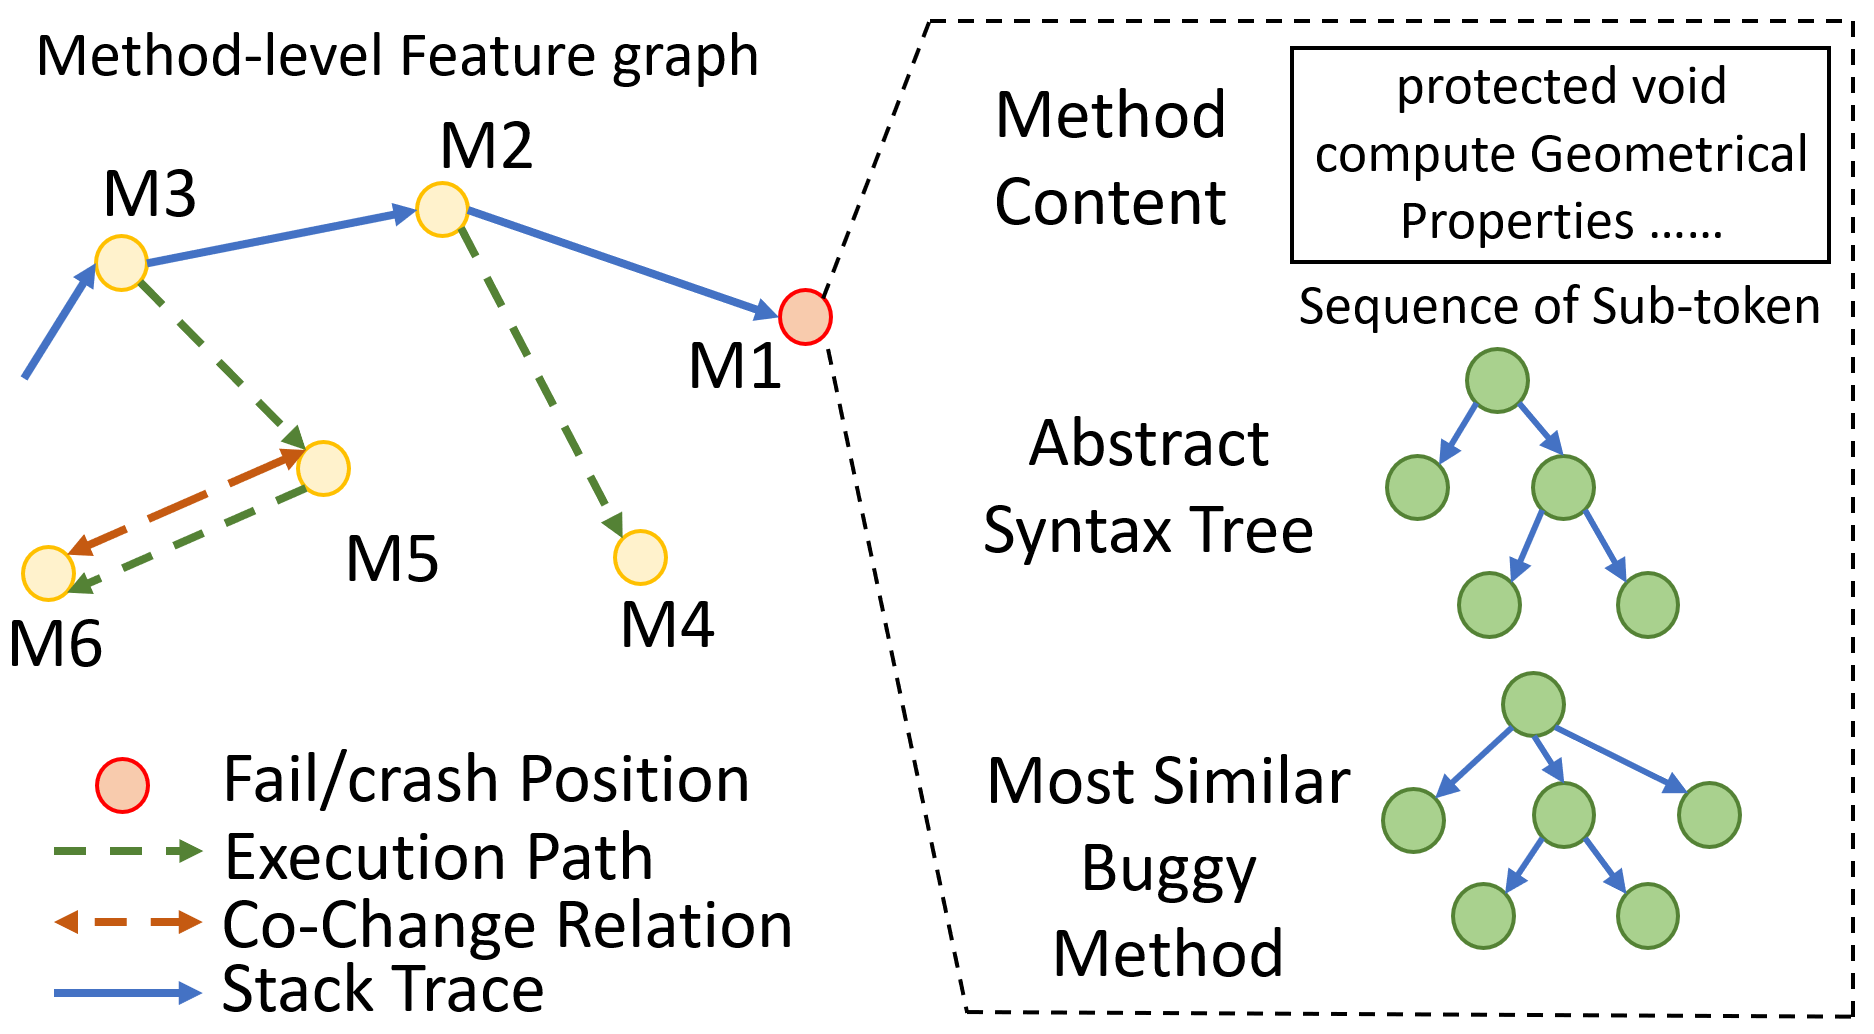
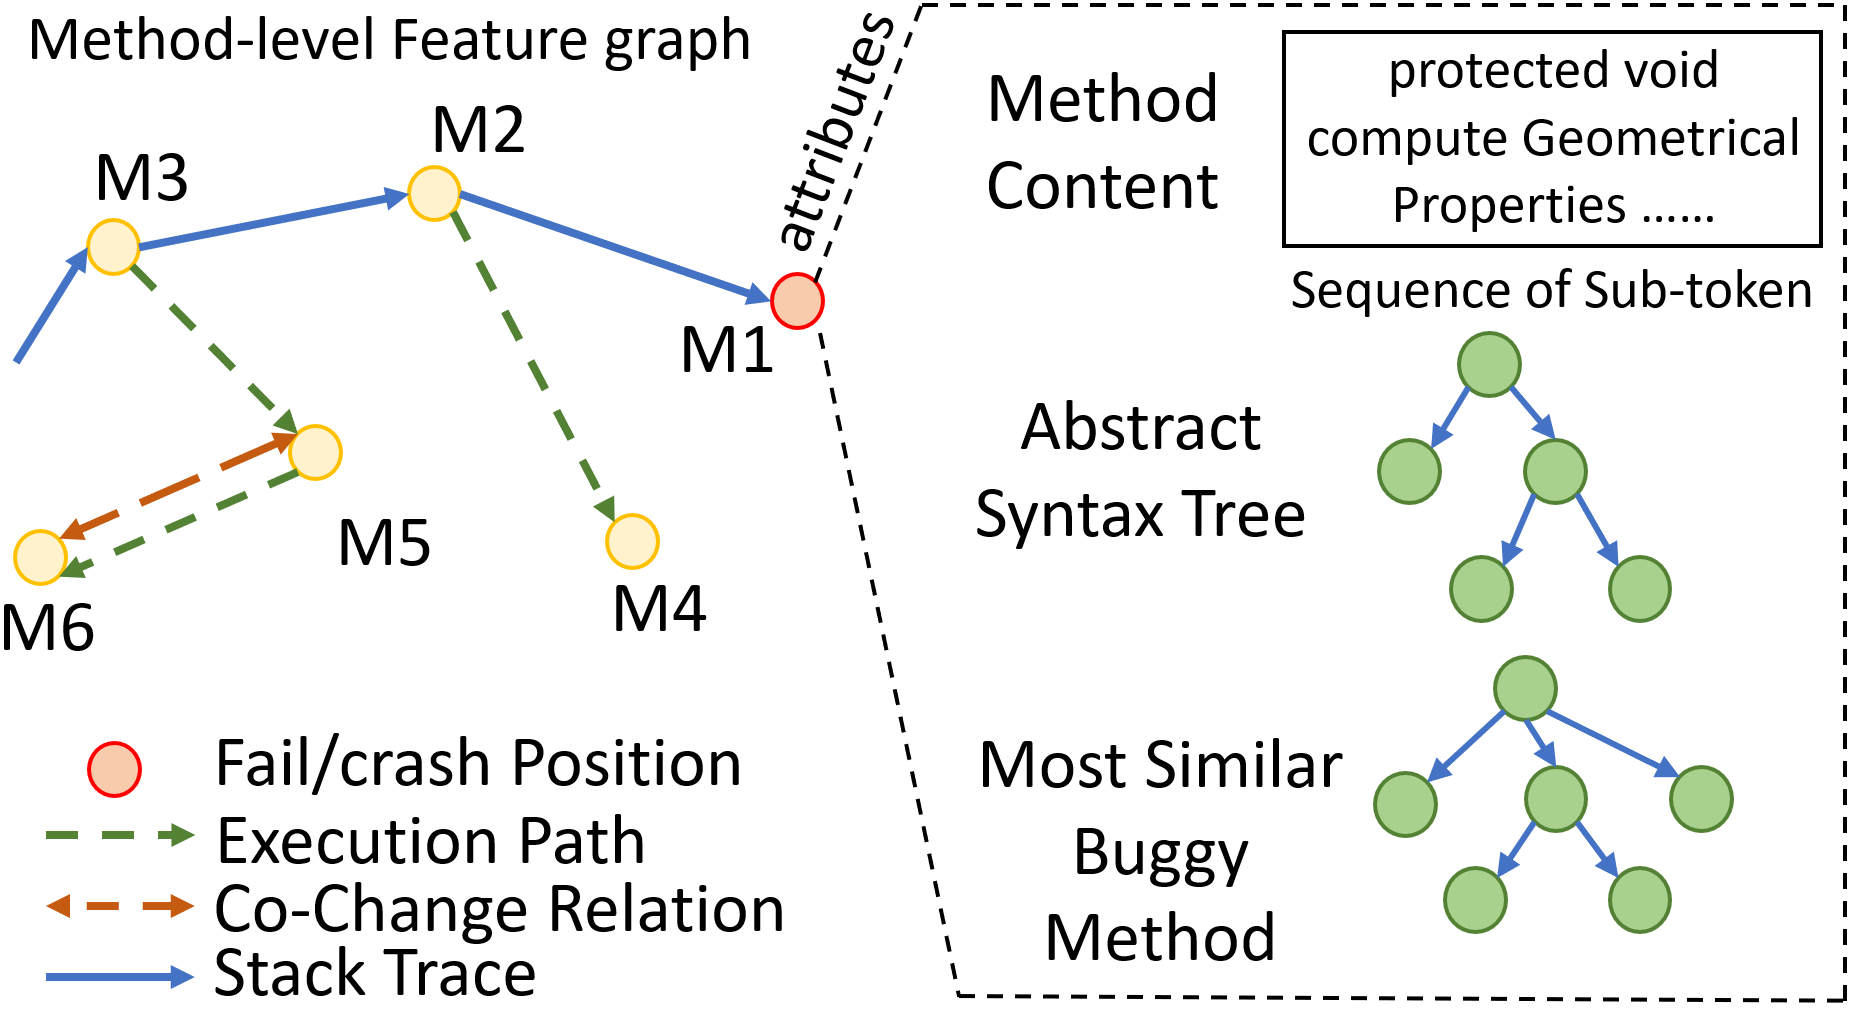
temp

diff --git a/sections/approach_step1.tex b/sections/approach_step1.tex
@@ -1,8 +1,12 @@
 \section{Feature Extraction}
+\label{feature-extract:sec}
 
-The first step of \tool is to preprocess the input data into the suitable format and group them into statement and method two levels. So the input of this step is the \tool input, including the java project that needs to do the fault localization with the commit history and the relevant test cases for the project. And the output of this step is two groups of graphs with node features for statement-level and method-level.
+%The first step of \tool is to preprocess the input data into the suitable format and group them into statement and method two levels. So the input of this step is the \tool input, including the java project that needs to do the fault localization with the commit history and the relevant test cases for the project. And the output of this step is two groups of graphs with node features for statement-level and method-level.
 
-Specifically, \tool extract the features from two levels: the method-level and statement-level feature extraction.
+The goal of this step is to extract the important features for FL from
+the test coverage and source code repository.
+
+%Specifically, \tool extract the features from two levels: the method-level and statement-level feature extraction.
 
 \begin{figure}[t]
 	\centering
@@ -12,7 +16,31 @@ Specifically, \tool extract the features from two levels: the method-level and s
 \end{figure}
 
 \subsection{Method-level Feature Extraction}
-For the method level, \tool uses the method as the basic unit. And for each method, \tool extracts three key features, including the method content, abstract syntax tree (AST), and the most similar buggy method. 1> For the method content, \tool collect the source code of each method $M$ and link each statement $S_m$ one by one in $M$ as a sequence $Seq_m$ to represent the method content. \tool removes all special characters and uses CamelCase to break down the tokens in the sequence into sub-tokens to reduce the influence of biases. For example, in the Figure \ref{method-level-feature-extraction}, the method content feature in the method $M1$ shows the extracted sequence of sub-tokens $protected void compute ......$. The source code is listed on the input of the Figure \ref{statement-level-feature-extraction}. 2> As for the AST, \tool generates abstract syntax tree $Tree_m$ for each method $M$ by using JDT package \cite{JDT}. The generated AST looks like the example shown on the abstract syntax tree feature in Figure \ref{method-level-feature-extraction}. 3> When extracting the most similar buggy method feature, \tool breaks down the methods into the sequence of sub-tokens just like the method content feature. It then uses GloVe \cite{pennington2014glove} to learn the embedding for each sub-token and replace the sub-tokens with the embedding vectors. After this, \tool calculates the cosine similarity between the current method $m$ and all other buggy methods in the commit history (before the current bug) to find the most similar buggy method $m_b$. For this buggy method, \tool also uses the JDT package to generate the AST for $m_b$. The most similar buggy method feature in Figure \ref{method-level-feature-extraction} shows a possible example for it.
+
+Figure~\ref{method-level-feature-extraction} illustrates the key
+attributes and relations that we collect for each method $M_1$. We
+extract the following attributes for $M_1$. First, for the method
+content, we remove special characters and separators in the method's
+interface and body, and use CamelCase convention to break each code
+token into the sub-tokens. For example, in
+Figure~\ref{method-level-feature-extraction}, the node $M_1$
+represents the method \code{computeGeometricalProperties} in
+Figure~\ref{statement-level-feature-extraction}. For the method
+content for $M_1$, the extracted sequence of sub-tokens is
+\code{protected}, \code{void}, \code{compute}, \code{Geometrical},
+\code{Properties}, etc. Second, for the method's structure, we use JDT
+package~\cite{JDT} to parse the source code to build the AST of the
+method. Third, we keep the most similar buggy method $M_b$ with $M_1$.
+Note that we keep $M_b$ as an attribute of $M_1$, rather than
+representing $M_b$ in the feature graph. The rationale is that $M_b$
+might be in the past and might not be in the current version of the
+project. Two methods are similar when they have similar sequences of
+the sub-tokens (represented by the GloVe embeddings~\cite{glove2014}).
+For $M_b$, we build its AST via JDT and keep as an attribute for
+$M_1$.
+
+
+%For the method level, \tool uses the method as the basic unit. And for each method, \tool extracts three key features, including the method content, abstract syntax tree (AST), and the most similar buggy method. 1> For the method content, \tool collect the source code of each method $M$ and link each statement $S_m$ one by one in $M$ as a sequence $Seq_m$ to represent the method content. \tool removes all special characters and uses CamelCase to break down the tokens in the sequence into sub-tokens to reduce the influence of biases. For example, in the Figure \ref{method-level-feature-extraction}, the method content feature in the method $M1$ shows the extracted sequence of sub-tokens $protected void compute ......$. The source code is listed on the input of the Figure \ref{statement-level-feature-extraction}. 2> As for the AST, \tool generates abstract syntax tree $Tree_m$ for each method $M$ by using JDT package \cite{JDT}. The generated AST looks like the example shown on the abstract syntax tree feature in Figure \ref{method-level-feature-extraction}. 3> When extracting the most similar buggy method feature, \tool breaks down the methods into the sequence of sub-tokens just like the method content feature. It then uses GloVe \cite{pennington2014glove} to learn the embedding for each sub-token and replace the sub-tokens with the embedding vectors. After this, \tool calculates the cosine similarity between the current method $m$ and all other buggy methods in the commit history (before the current bug) to find the most similar buggy method $m_b$. For this buggy method, \tool also uses the JDT package to generate the AST for $m_b$. The most similar buggy method feature in Figure \ref{method-level-feature-extraction} shows a possible example for it.
 
 After having these three features for each method, \tool uses three kinds of edges to link them as a graph. First of all, \tool runs test cases for the project. If a test case $t_i$ failed, \tool collect the stack trace for the test case $t_i$. Because the stack trace is sometimes too long, using the crashed position as the root, \tool only picks part of the stack trace $st_i$ with the depth of ten in consideration. It means that on the stack trace $st_i$, there are at most ten methods include $m_1, m_2, ..., m_{10}$ where $m_1$ is the crashed position. For every two method $m_j$ and $m_{j+1}$ among these methods, $m_{j+1}$ calls the $m_j$ in the stack trace. The edge $E_m^s$ direction in it is always from $m_{j+1}$ point to $m_j$. For example, in the Figure \ref{method-level-feature-extraction}, the crashed method is $M1$ and the blue solid edges are the stack trace $st_i$. The figure shows that in the stack trace, $M3$ comes out before $M2$ and $M2$ comes out before $M1$. The second type of edge is the execution path. By using each method $m_j$ in the stack trace $st_i$ as the root method, \tool expands the stack trace $st_i$ by adding the executed methods into the graph. The direction of the execution edges $E_m^e$ is also the same as the call direction. Also, because sometimes the execution path may be very long for a method, we only keep the methods $m_k$ within ten steps from the crashed position $m_1$ that means in the graph, from node $m_k$ to $m_1$, the steps are no more than ten (when counting the steps, \tool ignore the edge direction). The green dotted line in Figure \ref{method-level-feature-extraction} shows an example for this type of edge. With the Figure \ref{method-level-feature-extraction}, the green dotted line reflects the relationship that when running the test case $t_i$ on $M2$, it also executes the method $M4$ based on the method call. And then, it executing the $M3$, it executes the method $M5$, and within $M5$, it also executes method $M6$ based on the method calls inside the methods. The third type of edge is the co-change relation. For this,  \tool collects all commit history from the input java project. If more than one method has changed in one commit, we mark it as a co-change. The co-change contains all the methods that changed together in this commit. To add the co-change relation as one type of edge, \tool makes the co-change relation become a two-directional edge $E_m^c$ (e.g. The orange edge between $M5->M6$ and $M6->M5$ in the Figure \ref{method-level-feature-extraction}).
 %
